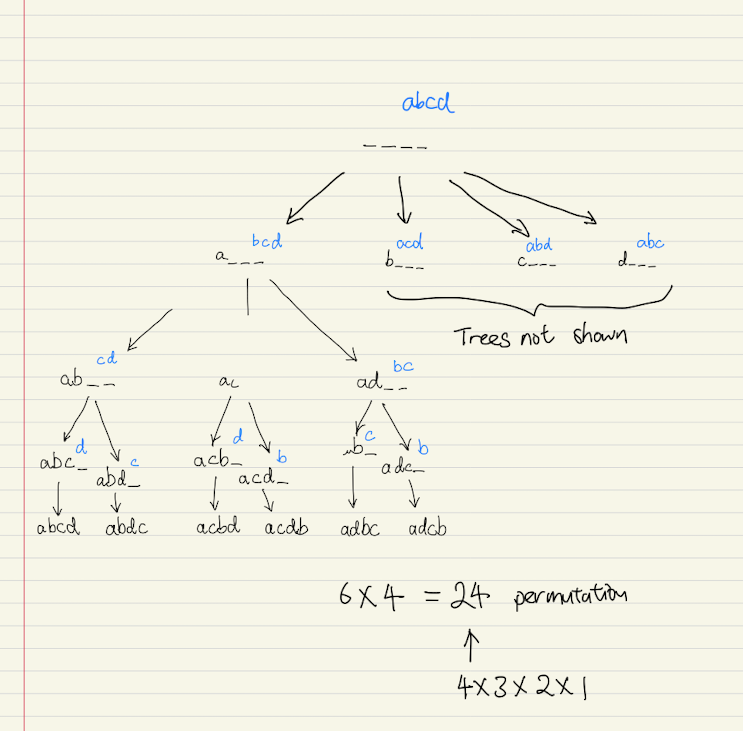
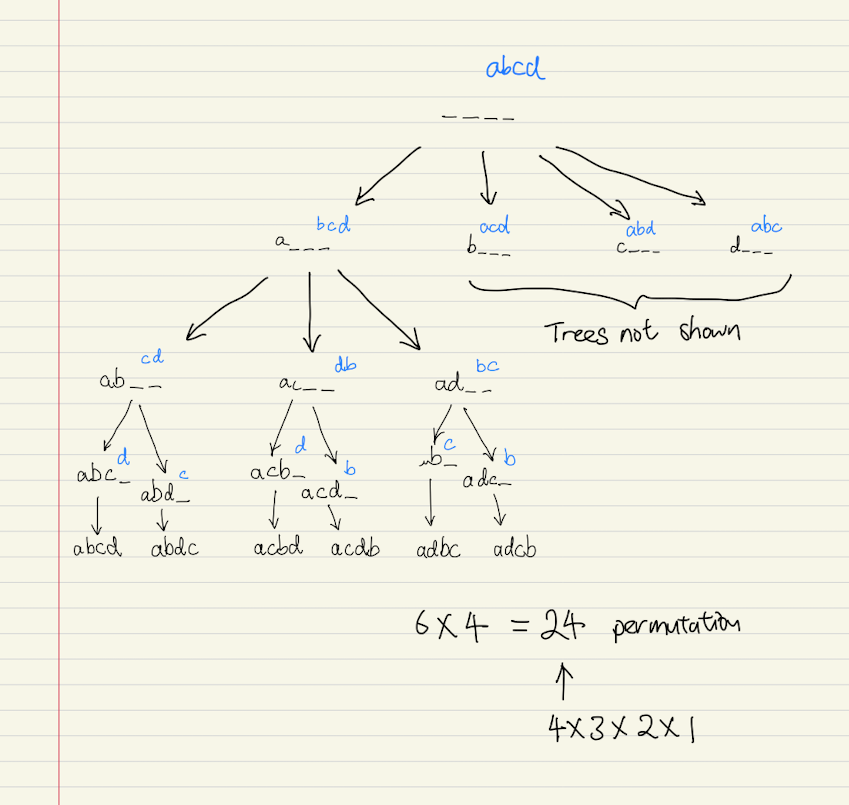
fix note

diff --git a/string-permutation-w-backtrack/README.md b/string-permutation-w-backtrack/README.md
@@ -3,7 +3,7 @@
 Given 4 characters:
 
 ```
-"a", "b", "a", "d"
+"a", "b", "c", "d"
 ```
 Find all posiblity of arranging this 4 characters into a string using the **backtracking** algorithm.
 
